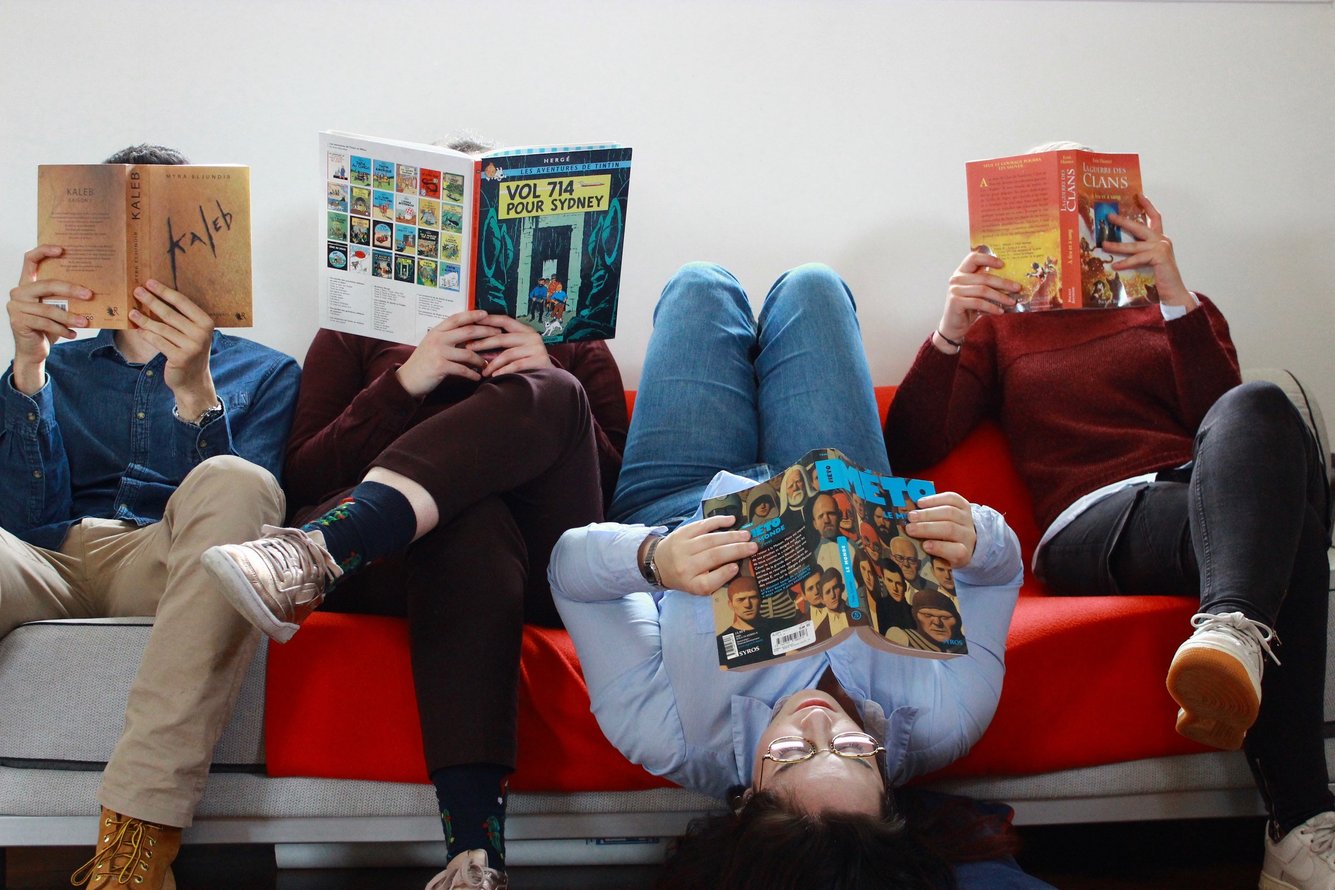
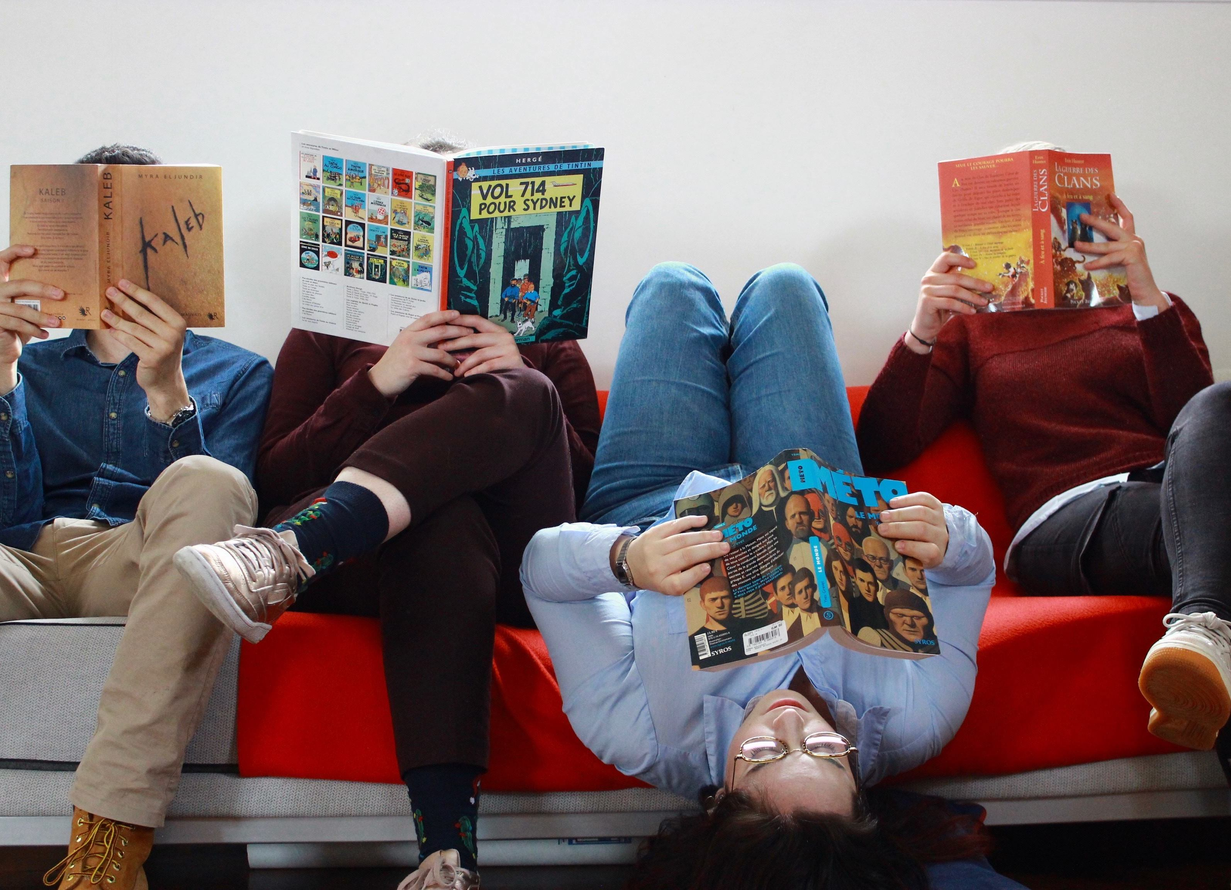
Fix(Crop photo and adaptative height for pres photo)

diff --git a/app/assets/stylesheets/static_pages.scss b/app/assets/stylesheets/static_pages.scss
@@ -128,8 +128,8 @@ header.masthead {
 	position: relative;
 	background-color: #343a40;
 	background-size: cover;
-	padding-top: 8rem;
-	padding-bottom: 8rem;
+	padding-top: 10vw;
+	padding-bottom: 10vw;
 }
 
 header.masthead .overlay {
@@ -147,10 +147,6 @@ header.masthead h1 {
 }
 
 @media (min-width: 768px) {
-	header.masthead {
-		padding-top: 12rem;
-		padding-bottom: 12rem;
-	}
 	header.masthead h1 {
 		font-size: 3rem;
 	}
